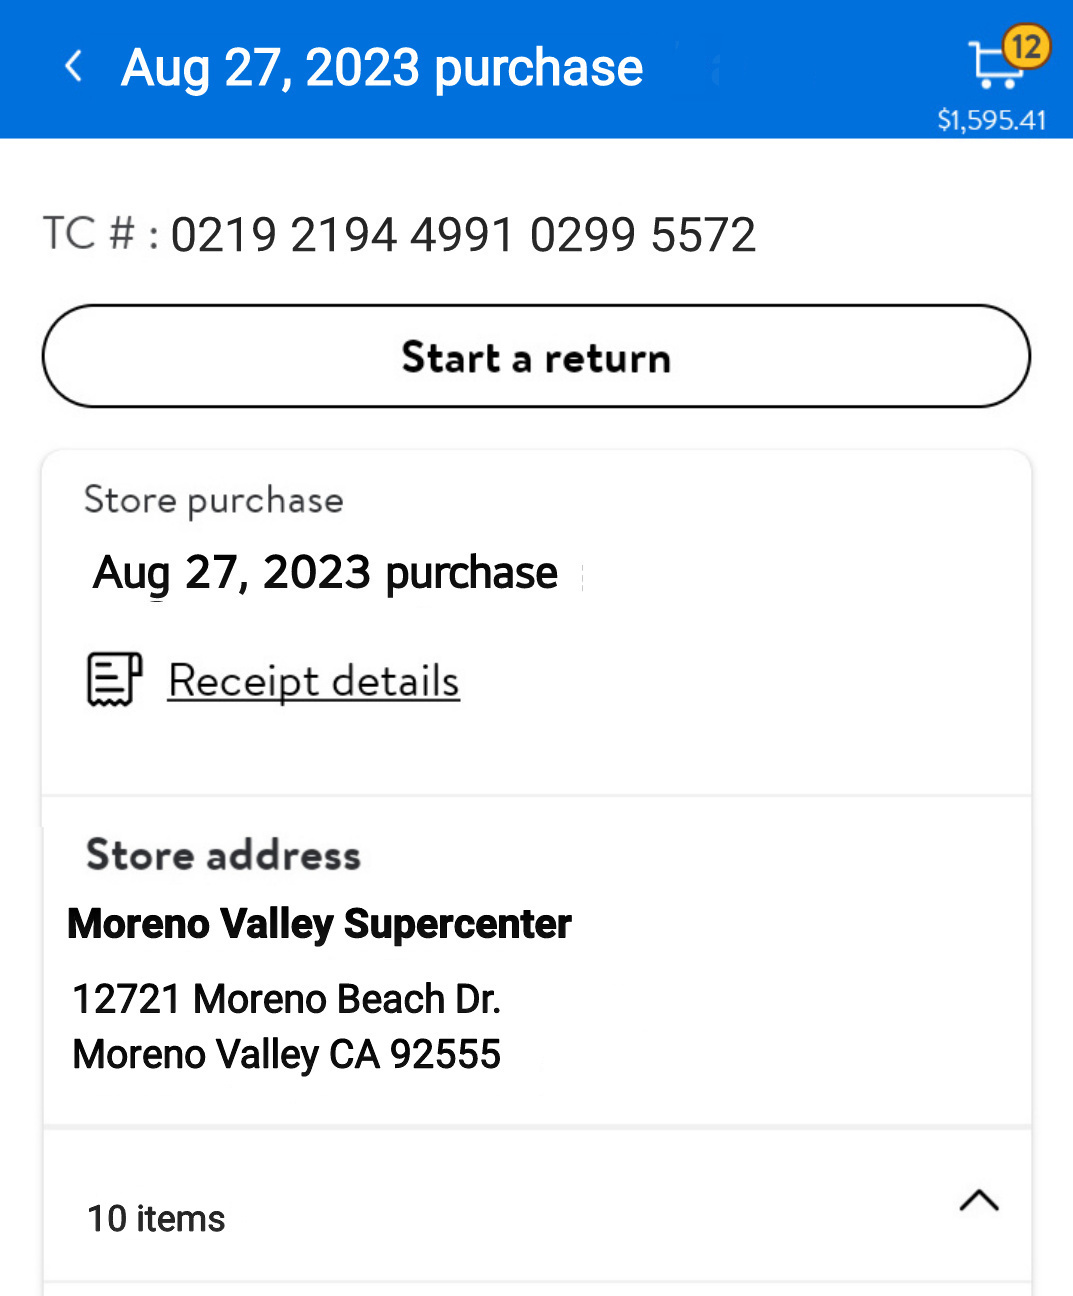
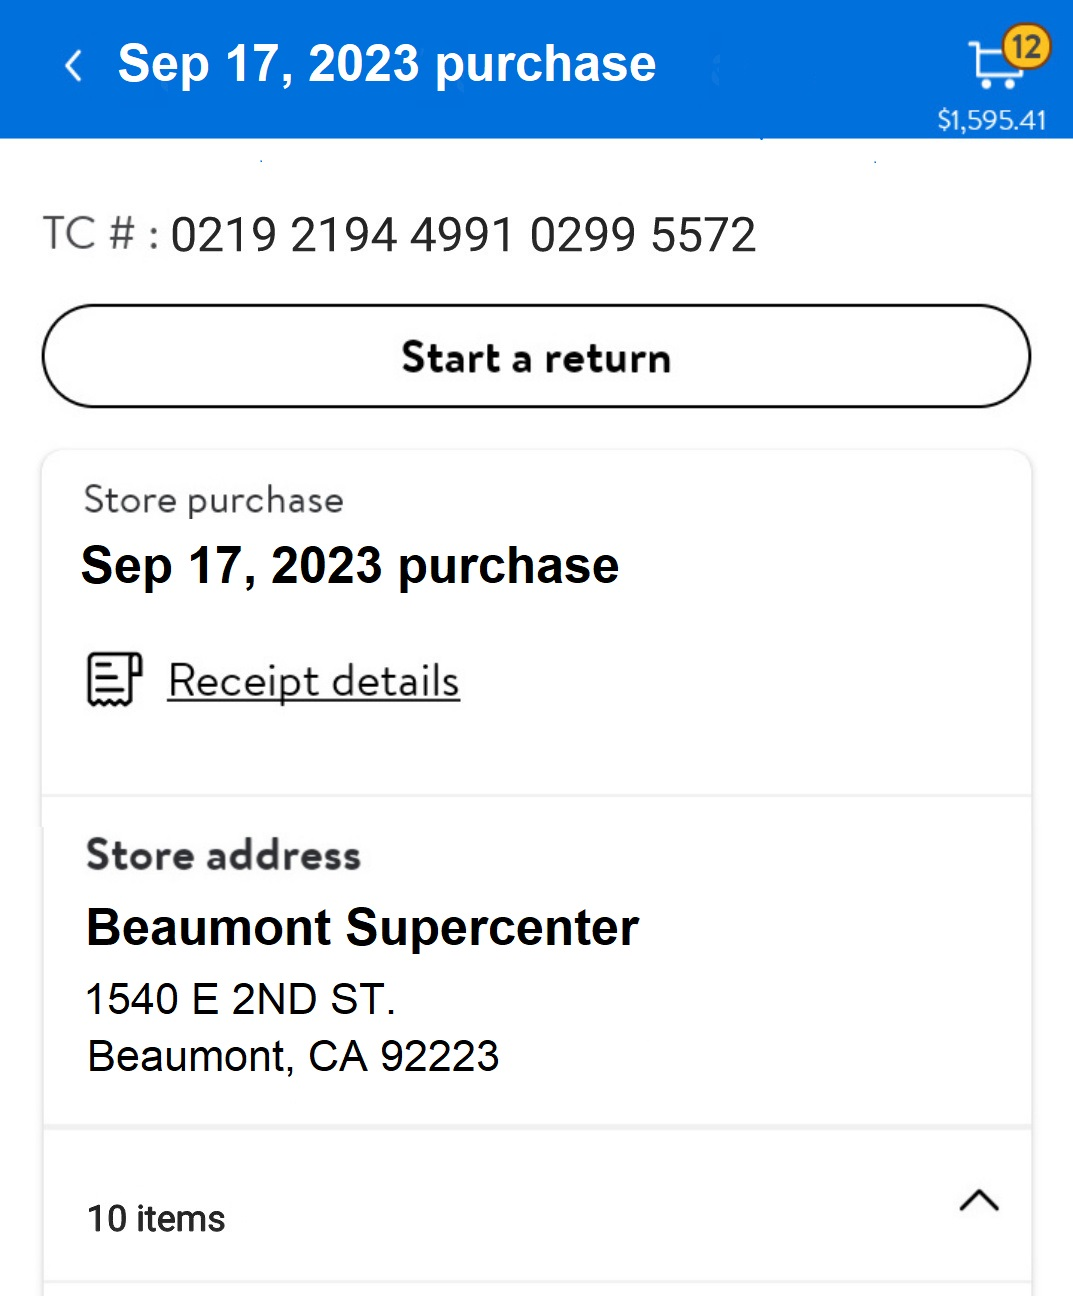
0917 update

Changed region(s): [[0.0615, 0.679, 0.5843, 0.8333], [0.0923, 0.0309, 0.6151, 0.0926], [0.0615, 0.4012, 0.5843, 0.463]]

diff --git a/index.html b/index.html
@@ -15,7 +15,7 @@
 </head>
 <body>
     <img src="search.jpg" alt="search">
-    <a href="pd1.html"><img src="ph0916.jpg" alt="topph">
+    <a href="pd1.html"><img src="ph0917.jpg" alt="topph">
     <a href="pd2.html"><img src="ph1.jpg" alt="phtop2">
     <img src="ph2.jpg" alt="2">
     <img src="ph3.jpg" alt="3">   

diff --git a/pd1.html b/pd1.html
@@ -14,7 +14,7 @@
 	<title>pd html</title>
 </head>
 <body>
-	<h1><a href="0916r.jpg"><img src="pdtop.jpg" alt="pd1"></h1>
+	<h1><a href="0917r.jpg"><img src="pdtop.jpg" alt="pd1"></h1>
 	<h2><img src="price.jpg" alt="pay"></h2>
 </body>
 </html>
